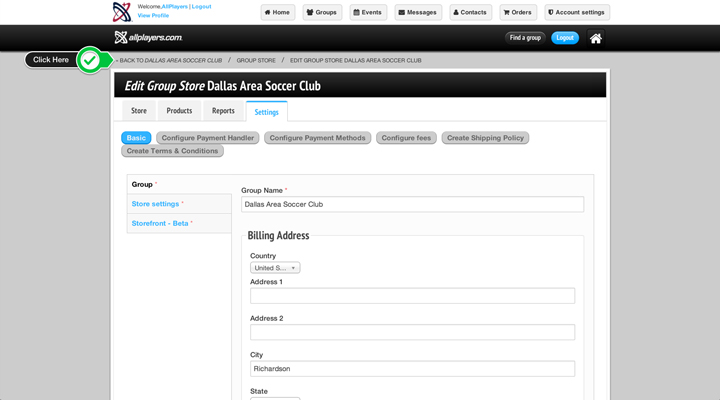
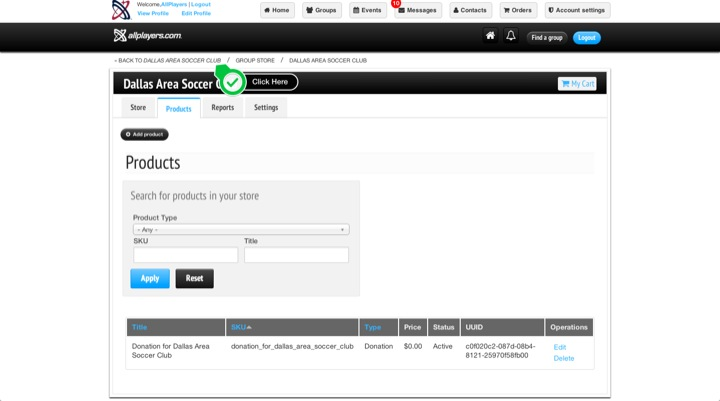
Updating build

diff --git a/knowledge-base/group-admin-knowledge/pages/1-group-admin-guide/06-accept-donations.html b/knowledge-base/group-admin-knowledge/pages/1-group-admin-guide/06-accept-donations.html
@@ -2494,31 +2494,43 @@
   <br />
   <div class="row">
     <div class="six columns">
-      <p>Click the <strong>Settings</strong> tab.</p>
+      <p>Click the <strong>Products</strong> tab.</p>
     </div>
     <div class="six columns">
-      <img class="kbImage" src="images/knowledge/admin_guide-donation-navigate_store_settings_tab.jpg">
+      <img class="kbImage" src="images/knowledge/admin_guide-donation-navigate_store_products_tab.jpg">
       <div class="kbImageLarge">
-        <img src="images/knowledge/admin_guide-donation-navigate_store_settings_tab-large.jpg">
+        <img src="images/knowledge/admin_guide-donation-navigate_store_products_tab-large.jpg">
       </div>
     </div>
   </div>
   <br />
   <div class="row">
     <div class="six columns">
-      <p>Click <strong>Configure Donations</strong>.</p>
+      <p>Click <strong>Add Product</strong>.</p>
     </div>
     <div class="six columns">
-      <img class="kbImage" src="images/knowledge/admin_guide-donation-navigate_store_configure_donations.jpg">
+      <img class="kbImage" src="images/knowledge/admin_guide-donation-navigate_store_add_product.jpg">
       <div class="kbImageLarge">
-        <img src="images/knowledge/admin_guide-donation-navigate_store_configure_donations-large.jpg">
+        <img src="images/knowledge/admin_guide-donation-navigate_store_add_product-large.jpg">
       </div>
     </div>
   </div>
   <br />
   <div class="row">
     <div class="six columns">
-      <p>Complete the <strong>Minimum Amount</strong>, <strong>Maximum Amount</strong>, <strong>Goal</strong>, <strong>Suggested Amount</strong>, and <strong>Suggestion Label</strong> fields.</p>
+      <p>Click <strong>Donation</strong>.</p>
+    </div>
+    <div class="six columns">
+      <img class="kbImage" src="images/knowledge/admin_guide-donation-navigate_store_donation.jpg">
+      <div class="kbImageLarge">
+        <img src="images/knowledge/admin_guide-donation-navigate_store_donation-large.jpg">
+      </div>
+    </div>
+  </div>
+  <br />
+  <div class="row">
+    <div class="six columns">
+      <p>Complete the <strong>Product SKU</strong>, <strong>Title</strong>, <strong>Minimum Amount</strong>, <strong>Maximum Amount</strong>, <strong>Goal</strong>, <strong>Suggested Amount</strong>, and <strong>Suggestion Label</strong> fields.</p>
     </div>
     <div class="six columns">
       <img class="kbImage" src="images/knowledge/admin_guide-donation-navigate_store_configure_donations-complete_form.jpg">
